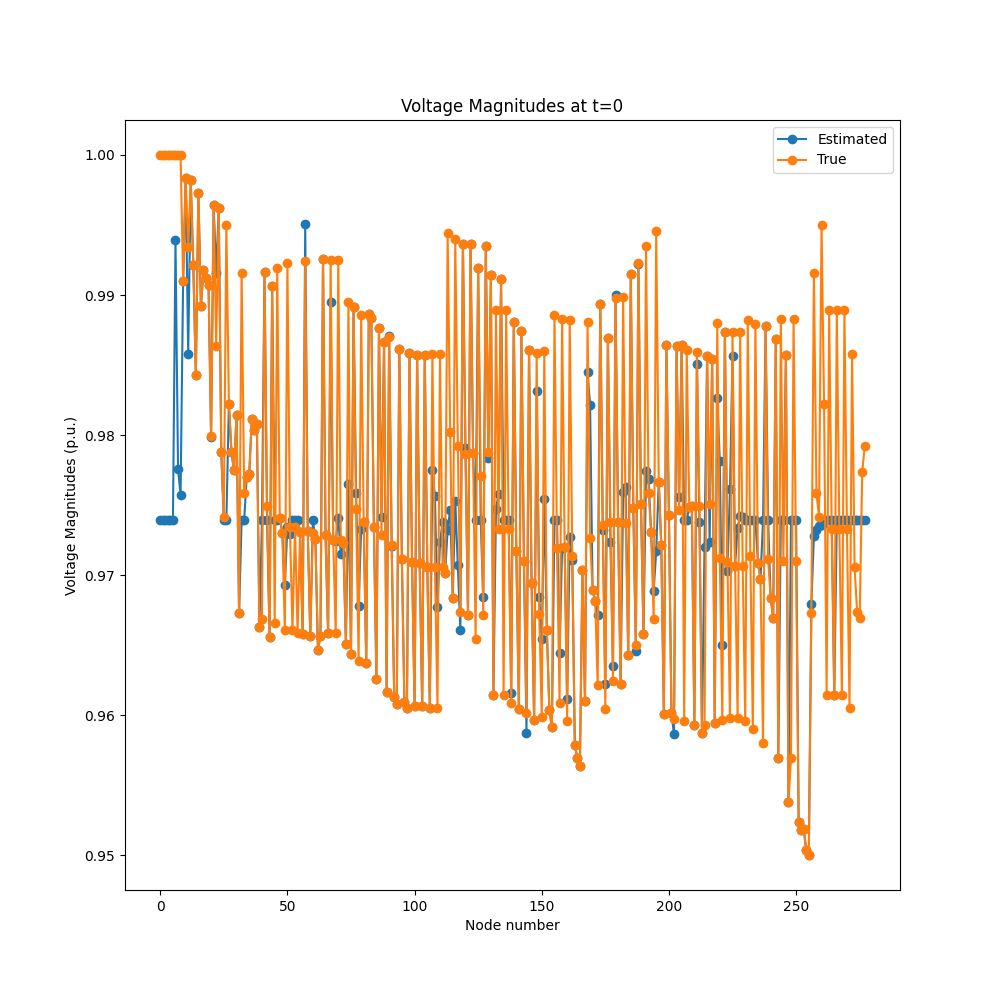
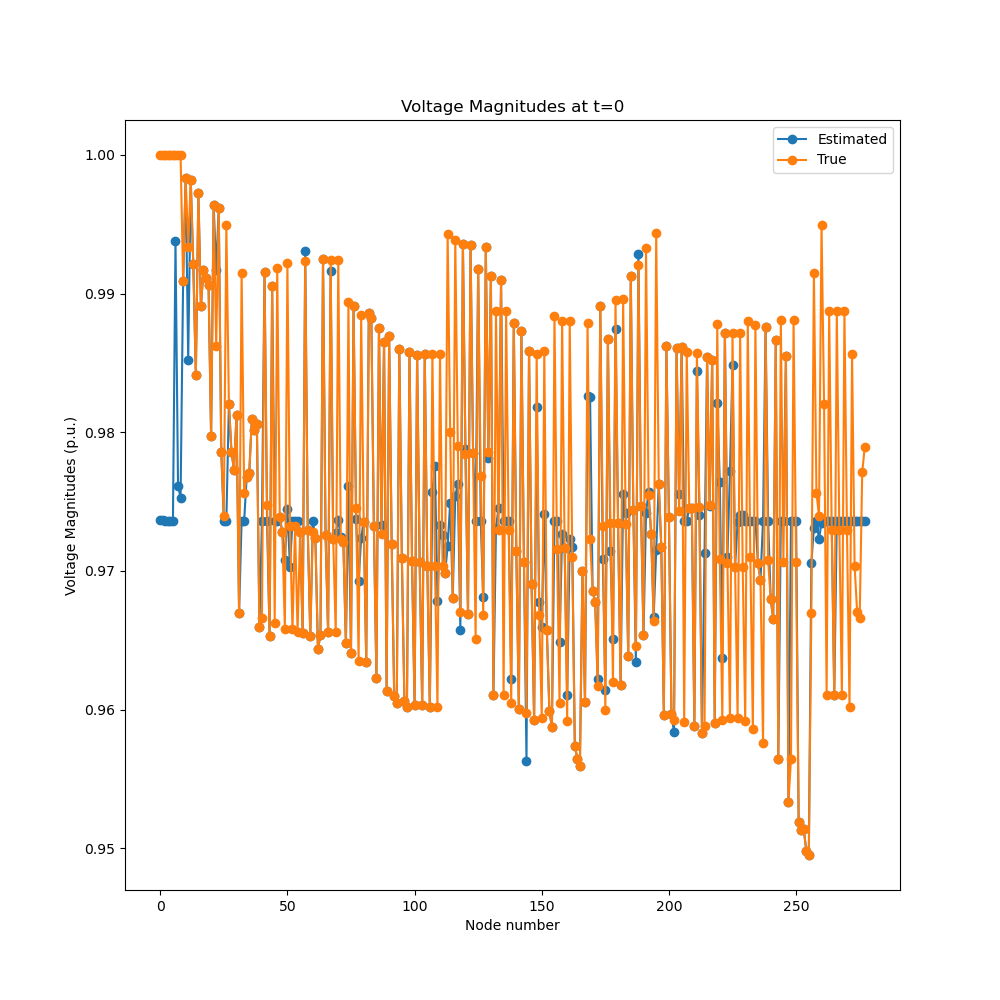
Add updated pngs

diff --git a/post_analysis.py b/post_analysis.py
@@ -9,48 +9,82 @@ from gadal.gadal_types.data_types import MeasurementArray, AdmittanceMatrix, Top
 import argparse
 
 
-parser = argparse.ArgumentParser(description='Create plots')
-parser.add_argument("directory", nargs="?", default="outputs",
-                    help="directory to look for voltage_measurements")
+parser = argparse.ArgumentParser(description="Create plots")
+parser.add_argument(
+    "directory",
+    nargs="?",
+    default="outputs",
+    help="directory to look for voltage_measurements",
+)
 args = parser.parse_args()
 
-voltage_real = feather.read_feather(os.path.join(args.directory, "voltage_real.feather"))
-voltage_imag = feather.read_feather(os.path.join(args.directory, "voltage_imag.feather"))
+voltage_real = feather.read_feather(
+    os.path.join(args.directory, "voltage_real.feather")
+)
+voltage_imag = feather.read_feather(
+    os.path.join(args.directory, "voltage_imag.feather")
+)
 
 with open(os.path.join(args.directory, "topology.json")) as f:
     topology = Topology.parse_obj(json.load(f))
-    base_voltages = np.array(topology.base_voltage_magnitudes.values)
+    base_voltage_df = pd.DataFrame(
+        {
+            "id": topology.base_voltage_magnitudes.ids,
+            "value": topology.base_voltage_magnitudes.values,
+        }
+    )
+    base_voltage_df.set_index("id", inplace=True)
+    base_voltages = base_voltage_df["value"]
 
-true_voltages = voltage_real.drop('time', axis=1) + 1j * voltage_imag.drop('time', axis=1)
-time = voltage_real["time"]
+true_voltages = voltage_real.drop("time", axis=1) + 1j * voltage_imag.drop(
+    "time", axis=1
+)
+true_voltages["time"] = voltage_real["time"]
+true_voltages.set_index("time", inplace=True)
 
-voltage_mag = feather.read_feather(os.path.join(args.directory, "voltage_mag.feather")).drop('time', axis=1)
-voltage_angle = feather.read_feather(os.path.join(args.directory, "voltage_angle.feather")).drop('time', axis=1)
+voltage_mag = feather.read_feather(os.path.join(args.directory, "voltage_mag.feather"))
+estimated_time = voltage_mag["time"]
+voltage_mag.drop("time", axis=1)
+voltage_angle = feather.read_feather(
+    os.path.join(args.directory, "voltage_angle.feather")
+).drop("time", axis=1)
 
 estimated_voltages = voltage_mag * np.exp(1j * voltage_angle)
+estimated_voltages["time"] = estimated_time
+estimated_voltages.set_index("time", inplace=True)
+
+time_intersection = pd.merge(
+    true_voltages, estimated_voltages, left_index=True, right_index=True
+).index.to_numpy()
+
+estimated_voltages = estimated_voltages.loc[time_intersection, :]
+true_voltages = true_voltages.loc[time_intersection, :]
+
+estimated_voltages = estimated_voltages.reindex(true_voltages.columns, axis=1)
+
 
 def plots(true_voltages, estimated_voltages, time=0, unit="kV"):
     n_nodes = true_voltages.shape[0]
     x_axis = np.arange(n_nodes)
-    fig1, ax = plt.subplots(figsize=(10,10))
+    fig1, ax = plt.subplots(figsize=(10, 10))
 
     ax.bar(x_axis, np.angle(estimated_voltages))
     ax.bar(x_axis, np.angle(true_voltages), width=0.5)
 
-    #ax.set_xticks(x_axis, true_voltages.index, rotation=-90, fontsize=5)
-    #ax.set_tick_params(axis='x', labelsize=5, rotation=-90)
-    ax.set_xlabel('Node number')
-    ax.set_ylabel('Voltage Angles')
-    ax.legend(['Estimated', 'True'])
+    # ax.set_xticks(x_axis, true_voltages.index, rotation=-90, fontsize=5)
+    # ax.set_tick_params(axis='x', labelsize=5, rotation=-90)
+    ax.set_xlabel("Node number")
+    ax.set_ylabel("Voltage Angles")
+    ax.legend(["Estimated", "True"])
     ax.set_title(f"Voltage Angles at t={time}")
 
-    fig2, ax = plt.subplots(figsize=(10,10))
-    ax.plot(x_axis, np.abs(estimated_voltages), '-o')
-    ax.plot(x_axis, np.abs(true_voltages), '-o')
-    #ax.set_xticks(x_axis, true_voltages.index, rotation=-90, fontsize=5)
-    ax.set_xlabel('Node number')
-    ax.set_ylabel(f'Voltage Magnitudes ({unit})')
-    ax.legend(['Estimated', 'True'])
+    fig2, ax = plt.subplots(figsize=(10, 10))
+    ax.plot(x_axis, np.abs(estimated_voltages), "-o")
+    ax.plot(x_axis, np.abs(true_voltages), "-o")
+    # ax.set_xticks(x_axis, true_voltages.index, rotation=-90, fontsize=5)
+    ax.set_xlabel("Node number")
+    ax.set_ylabel(f"Voltage Magnitudes ({unit})")
+    ax.legend(["Estimated", "True"])
     ax.set_title(f"Voltage Magnitudes at t={time}")
     return fig1, fig2
 
@@ -59,20 +93,23 @@ def errors(true_voltages, estimated_voltages):
     true_mag = np.abs(true_voltages)
     nonzero_parts = true_mag != 0.0
     MAPE = np.mean(
-        np.array(np.abs(true_mag - np.abs(estimated_voltages))
-                / true_mag)[nonzero_parts]
+        np.array(np.abs(true_mag - np.abs(estimated_voltages)) / true_mag)[
+            nonzero_parts
+        ]
         * 100
     )
     angle_difference = np.abs(np.angle(true_voltages) - np.angle(estimated_voltages))
-    angle_difference[angle_difference >= np.pi] = 2*np.pi - angle_difference[angle_difference >= np.pi]
+    angle_difference[angle_difference >= np.pi] = (
+        2 * np.pi - angle_difference[angle_difference >= np.pi]
+    )
     MAE = np.mean(np.array(angle_difference)[nonzero_parts] * 180 / np.pi)
     return MAPE, MAE
 
 
 def error_table(true_voltages, estimated_voltages):
     error_table = []
-    for i, t in enumerate(time):
-        MAPE, MAE = errors(true_voltages.iloc[i,:], estimated_voltages.iloc[i,:])
+    for i, t in enumerate(true_voltages.index):
+        MAPE, MAE = errors(true_voltages.iloc[i, :], estimated_voltages.iloc[i, :])
         error_table.append({"t": t, "MAPE": MAPE, "MAE": MAE})
     return pd.DataFrame(error_table)
 
@@ -88,15 +125,24 @@ def plot_errors(err_table):
     ax.set_xticks(err_table["t"][::5], err_table["t"][::5], rotation=-25, fontsize=5)
     return fig
 
+
 err_table = error_table(true_voltages, estimated_voltages)
 plot_errors(err_table).savefig("errors.png")
 MAPE, MAE = errors(true_voltages, estimated_voltages)
 print(f"MAPE = {MAPE}, MAE={MAE}")
-fig1, fig2 = plots(true_voltages.iloc[0,:] / base_voltages, estimated_voltages.iloc[0,:] / base_voltages, unit="p.u.")
+fig1, fig2 = plots(
+    true_voltages.iloc[0, :] / base_voltages,
+    estimated_voltages.iloc[0, :] / base_voltages,
+    unit="p.u.",
+)
 fig1.savefig("voltage_angles_0.png")
 fig2.savefig("voltage_magnitudes_0.png")
-if len(true_voltages) >=96:
-    fig1, fig2 = plots(true_voltages.iloc[95,:] / base_voltages, estimated_voltages.iloc[95,:] / base_voltages, time=95, unit="p.u.")
+if len(true_voltages) >= 94:
+    fig1, fig2 = plots(
+        true_voltages.iloc[93, :] / base_voltages,
+        estimated_voltages.iloc[93, :] / base_voltages,
+        time=93,
+        unit="p.u.",
+    )
     fig1.savefig("voltage_angles_95.png")
     fig2.savefig("voltage_magnitudes_95.png")
-
